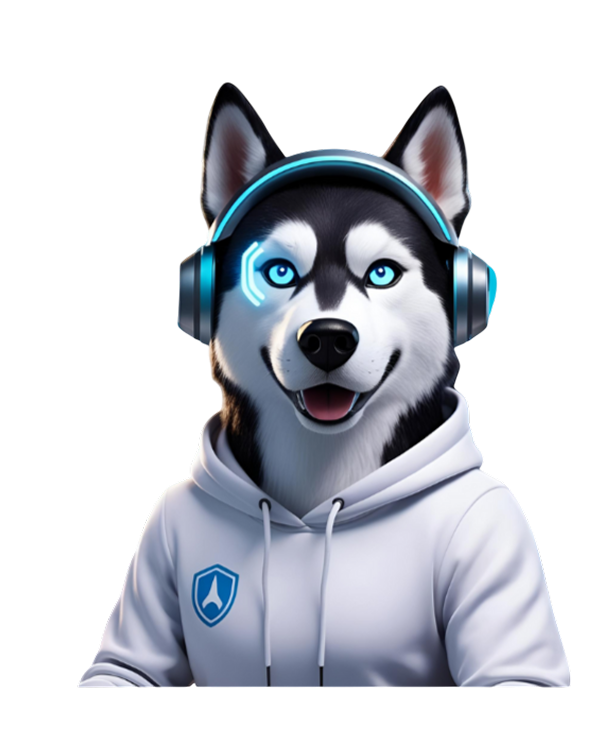
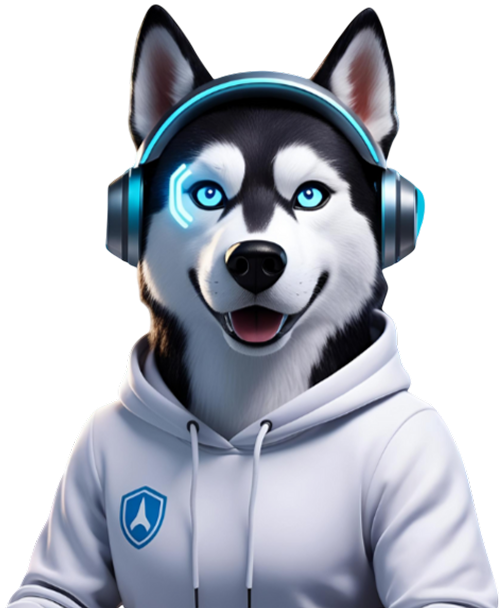
Update hero section with new design and add hero image

diff --git a/resources/views/hero.blade.php b/resources/views/hero.blade.php
@@ -1,40 +1,62 @@
 <x-app-layout>
-    <div class="container mx-auto px-4 py-8 relative">
-        <img src="{{ asset('images/name-hero.png') }}" alt="Home Banner" class=" object-cover rounded-lg mb-8">
-   
-    <div class="flex flex-row gap-4 mt-4">
-        <div class="flex flex-col">
-             <h1>
-        <span class="text-4xl font-bold text-[#0CA5FF]">
-            Cyber Rian
-        </span>
-        <span class="text-4xl font-bold text-white">
-            — "แพลตฟอร์มเรียนรู้
-        </span>
-        <span class="text-4xl font-bold text-[#0CA5FF]">
-            Cyber Security 
-        </span>
-        <span class="text-4xl font-bold text-white">
-            สำหรับทุกคน"
-        </span>
-    </h1>
-    <div class="w-1/5 border-2 border-[#0CA5FF] my-4"></div>
- <p class="text-3xl text-white  w-full tracking-wider leading-loose my-6">
-        เพราะ ความเสี่ยงไซเบอร์ <span class="text-[#0CA5FF]">“ เกิดได้กับทุกคน ”  </span>ไม่ว่าคุณจะเป็นใคร<br/> ทำงานสายไหน หรือ คนที่ใช้เทคโนโลยีในชีวิตประจำวัน คุณก็อาจ<br/> ตกเป็น <span class="text-[#0CA5FF]">เป้าหมาย </span> ของภัยคุกคามทางไซเบอร์ <span class="text-[#0CA5FF]">ได้ทุกเมื่อ</span>
-    </p>
+    <div class="container mx-auto px-4 py-8 relative  min-h-screen ">
+        <img src="{{ asset('images/name-hero.png') }}" alt="Home Banner" class=" object-cover rounded-lg my-8">
+
+        <div class="flex flex-row gap-4 my-20 relative">
+            <div class="flex flex-col">
+                <h1>
+                    <span class="text-4xl font-bold text-[#0CA5FF]">
+                        Cyber Rian
+                    </span>
+                    <span class="text-4xl font-bold text-white">
+                        — "แพลตฟอร์มเรียนรู้
+                    </span>
+                    <span class="text-4xl font-bold text-[#0CA5FF]">
+                        Cyber Security
+                    </span>
+                    <span class="text-4xl font-bold text-white">
+                        สำหรับทุกคน"
+                    </span>
+                </h1>
+                <div class="w-1/5 border-2 border-[#0CA5FF] my-4"></div>
+                <p class="text-3xl text-white  w-full tracking-wider leading-loose my-6 ">
+                    เพราะ ความเสี่ยงไซเบอร์ <span class="text-[#0CA5FF]">“ เกิดได้กับทุกคน ”
+                    </span>ไม่ว่าคุณจะเป็นใคร<br /> ทำงานสายไหน หรือ คนที่ใช้เทคโนโลยีในชีวิตประจำวัน คุณก็อาจ<br />
+                    ตกเป็น <span class="text-[#0CA5FF]">เป้าหมาย </span> ของภัยคุกคามทางไซเบอร์ <span
+                        class="text-[#0CA5FF]">ได้ทุกเมื่อ</span>
+                </p>
+                <div class="w-2/3 bg-gradient-to-r from-[#0E57C7] to-[#049EF9] h-1 mt-4 rounded-full"></div>
+
+            </div>
+
+            <div class="absolute right-0 -bottom-10">
+                <div class="relative w-[400px]"> <!-- ปรับขนาดตามต้องการ -->
+                    <img src="{{ asset('images/cyberrian-hero.png') }}" alt="Home Banner"
+                        class="w-full object-cover rounded-lg" />
+                    <!-- เส้นใต้สีขาว หนา 2px -->
+                    <div class="absolute bottom-0 left-0 w-full h-2 rounded-full bg-white"></div>
+                </div>
+            </div>
         </div>
-   
-    
-    </div>
-    <div class="absolute -bottom-20 right-0 flex flex-col items-end w-full mb-8">
-      <img src="{{ asset('images/cyberrian-hero.png') }}" alt="Home Banner" class=" w-1/3 h-auto object-cover rounded-lg">
-     
-    </div>
-  
+
+
+        <div class="flex flex-row justify-between items-center">
+            <div class="w-1/2 flex flex-row gap-4">
+                <button class=" bg-gradient-to-r from-[#1F4DE5] to-[#00A1FF] rounded-3xl w-1/2 py-4 text-white text-xl">
+                    เริ่มกับน้องไซ !
+                </button>
+                <button class=" bg-white rounded-3xl w-1/2 py-4 text-[#0C2E78] text-xl">
+                    เพิ่มเติม v
+                </button>
+            </div>
+            <div class="flex flex-col items-end">
+                <h1 class="text-[#0CA5FF] text-2xl">มาเรียนรู้เรื่อง Cyber ไปกับน้องไซ!</h1>
+                <p class="text-white text-lg">
+                    ป้องกันความเสี่ยงให้ตัวคุณเอง ทีมคุณ และองค์กรของคุณ — วันนี้!
+                </p>
+            </div>
+
+        </div>
+
     </div>
 </x-app-layout>
-<!-- 
- <h1 class="text-[#0CA5FF] text-2xl">มาเรียนรู้เรื่อง Cyber ไปกับน้องไซ!</h1>
-      <p class="text-white text-lg">
-        ป้องกันความเสี่ยงให้ตัวคุณเอง ทีมคุณ และองค์กรของคุณ — วันนี้!
-      </p> -->

diff --git a/routes/web.php b/routes/web.php
@@ -7,9 +7,6 @@ Route::get('/', function () {
     return view('hero');
 });
 
-Route::get('/login', function () {
-    return view('auth.login');
-})->name('login');
 
 Route::get('/welcome', function () {
     return view('welcome');
@@ -53,4 +50,4 @@ Route::middleware('auth')->group(function () {
     Route::delete('/profile', [ProfileController::class, 'destroy'])->name('profile.destroy');
 });
 
-require __DIR__.'/auth.php';
+require __DIR__ . '/auth.php';
